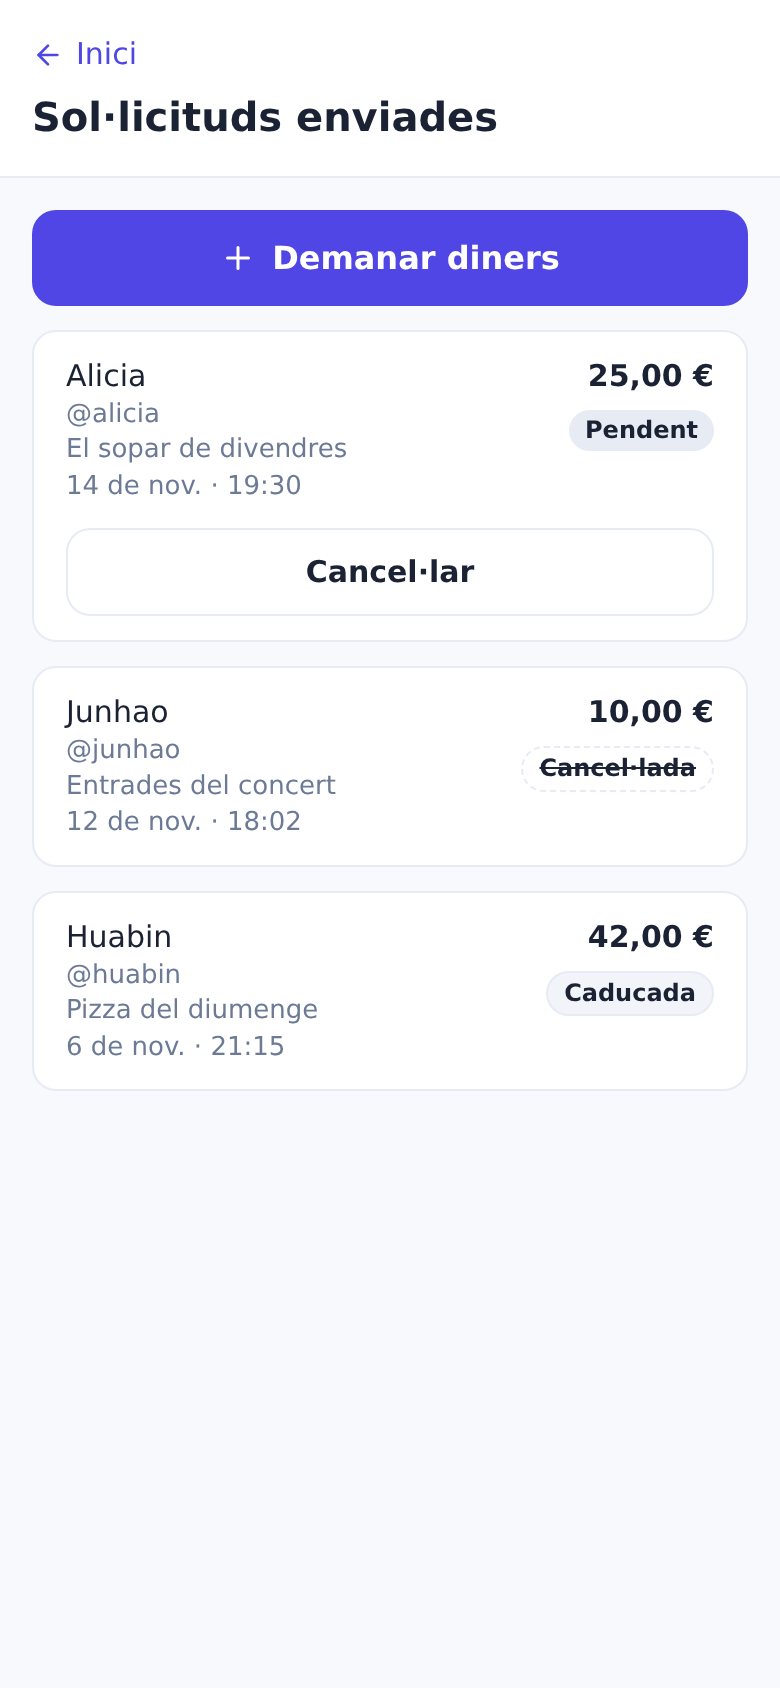
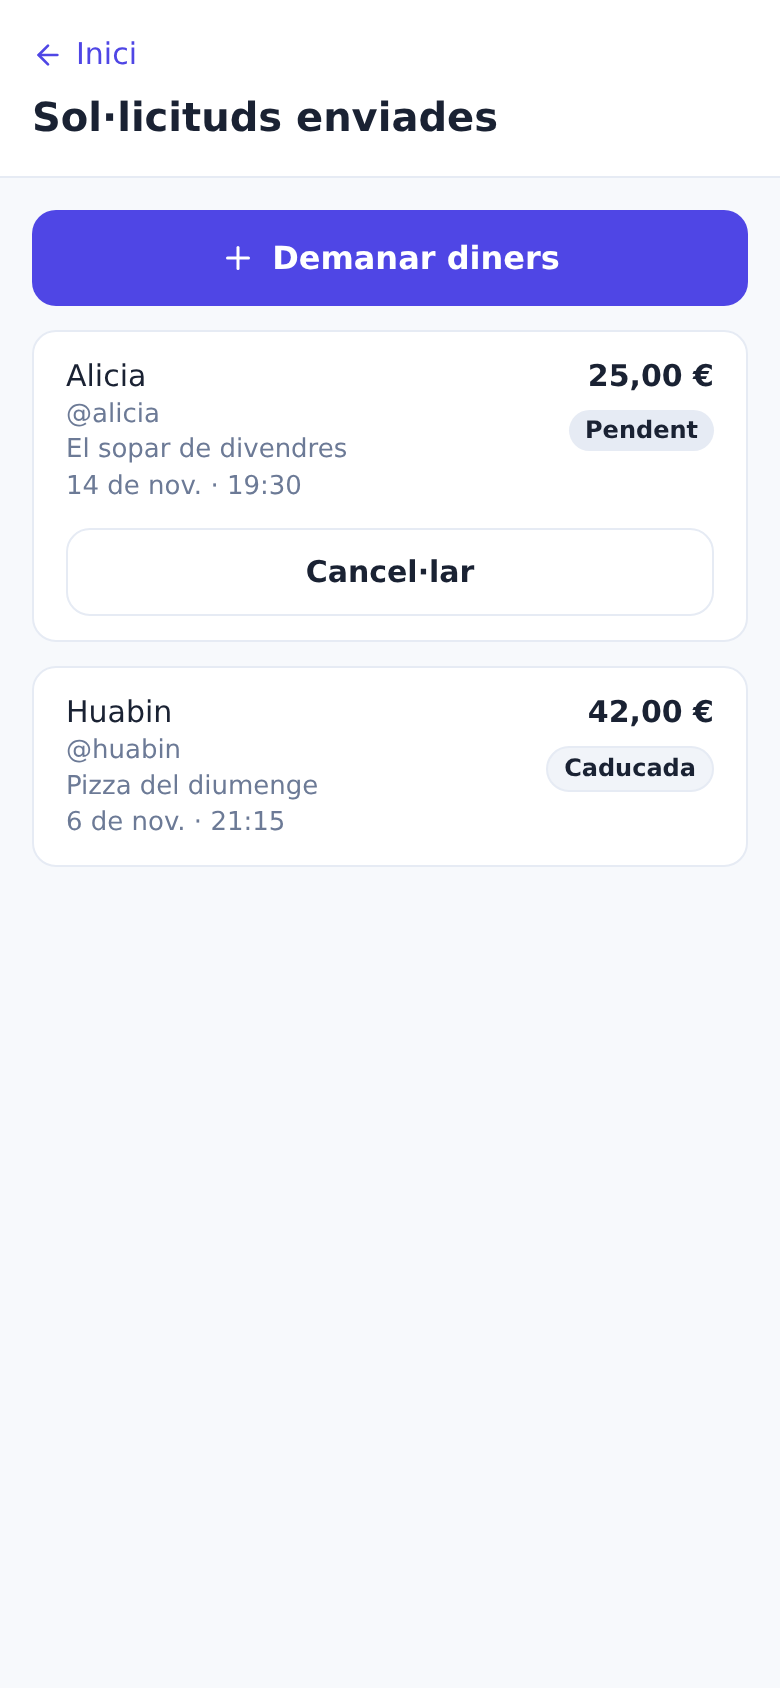
docs(us): drop the cancelled state from the US-15 mockups (D1) US-15
PO decision D1: no «Cancel·lada» state; the list mockups show only Pendent and Caducada rows. The «Sol·licitud cancel·lada.» success toast stays.

diff --git a/docs/us/_mockup/src/US-15-sollicituds-enviades.html b/docs/us/_mockup/src/US-15-sollicituds-enviades.html
@@ -142,7 +142,6 @@ body{
 }
 .pendent{background:#e6ebf4;color:var(--color-text)}
 .caducada{background:#f1f4f9;color:var(--color-text);border:1px solid var(--color-border)}
-.cancel-lada{background:var(--color-surface);color:var(--color-text);border:1px dashed var(--color-border);text-decoration:line-through}
 /* Ghost button */
 .btn-ghost{
   display:flex;
@@ -164,7 +163,7 @@ body{
 </head>
 <body>
 <!--
-  US-15 · Sol·licituds enviades — maqueta estàtica (estat d'èxit amb 3 sol·licituds).
+  US-15 · Sol·licituds enviades — maqueta estàtica (estat d'èxit amb 2 sol·licituds: Pendent i Caducada).
 
   Estats NO mostrats en aquesta maqueta:
   - loading: «Carregant…»
@@ -209,23 +208,7 @@ body{
         <button class="btn-ghost" type="button">Cancel·lar</button>
       </div>
 
-      <!-- Fila 2 · Cancel·lada -->
-      <div class="card row">
-        <div class="row-top">
-          <div class="col-left">
-            <div class="name">Junhao</div>
-            <div class="handle">@junhao</div>
-            <div class="concept">Entrades del concert</div>
-            <div class="date">12 de nov. · 18:02</div>
-          </div>
-          <div class="col-right">
-            <div class="amount">10,00 €</div>
-            <span class="badge cancel-lada">Cancel·lada</span>
-          </div>
-        </div>
-      </div>
-
-      <!-- Fila 3 · Caducada -->
+      <!-- Fila 2 · Caducada -->
       <div class="card row">
         <div class="row-top">
           <div class="col-left">

diff --git a/docs/us/_mockup/src/US-15-cancelar-confirmacio.html b/docs/us/_mockup/src/US-15-cancelar-confirmacio.html
@@ -134,7 +134,6 @@
     }
     .pendent { background: #e6ebf4; color: var(--color-text); }
     .caducada { background: #f1f4f9; color: var(--color-text); border: 1px solid var(--color-border); }
-    .cancel-lada { background: var(--color-surface); color: var(--color-text); border: 1px dashed var(--color-border); text-decoration: line-through; }
     .btn-cancel-row {
       margin-top: 10px;
       width: 100%;
@@ -247,21 +246,6 @@
             <span class="badge pendent">Pendent</span>
           </div>
           <button class="btn-cancel-row" type="button" tabindex="-1">Cancel·lar</button>
-        </article>
-
-        <article class="req-card">
-          <div class="req-top">
-            <div>
-              <div class="req-name">Junhao</div>
-              <div class="handle">@junhao</div>
-            </div>
-            <span class="req-amount">10,00&nbsp;€</span>
-          </div>
-          <span class="req-concept">Entrades del concert</span>
-          <div class="req-meta">
-            <span class="req-date">12 de nov. · 18:02</span>
-            <span class="badge cancel-lada">Cancel·lada</span>
-          </div>
         </article>
 
         <article class="req-card">
